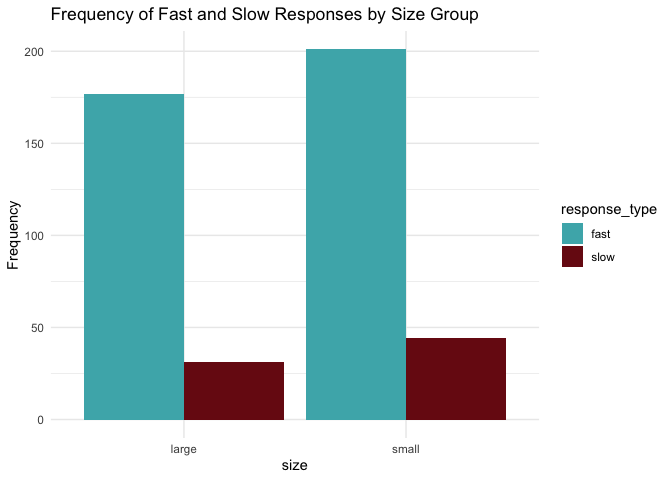
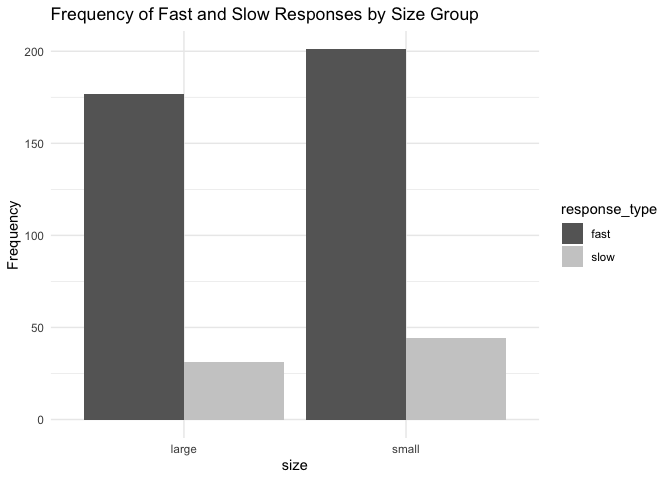
commiting updated graphs

Changed region(s): [[0.125, 0.0938, 0.75, 0.875], [0.8125, 0.4375, 0.875, 0.5625]]

diff --git a/fhlcode_draft1.md b/fhlcode_draft1.md
@@ -218,7 +218,7 @@ summary_table <- cym_dat %>%
 ggplot(summary_table, aes(x = size, y = count, fill = response_type)) +
   geom_bar(stat = "identity", position = "dodge") +
   labs(title = "Frequency of Fast and Slow Responses by Size Group", y = "Frequency") +
-  scale_fill_fish_d(option = "Trimma_lantana") +
+  scale_fill_manual(values = c("gray40", "gray80")) +
   theme_minimal()
 ```
 
@@ -506,40 +506,7 @@ plot(glm_size_distfr)
 ![](fhlcode_draft1_files/figure-gfm/unnamed-chunk-8-5.png)<!-- -->
 
 ``` r
-#size is more significant
-html_table1 <- stargazer(glm_size_distfr, type = "html")
-```
-
-    ## 
-    ## <table style="text-align:center"><tr><td colspan="2" style="border-bottom: 1px solid black"></td></tr><tr><td style="text-align:left"></td><td><em>Dependent variable:</em></td></tr>
-    ## <tr><td></td><td colspan="1" style="border-bottom: 1px solid black"></td></tr>
-    ## <tr><td style="text-align:left"></td><td>latency_ms</td></tr>
-    ## <tr><td colspan="2" style="border-bottom: 1px solid black"></td></tr><tr><td style="text-align:left">sizesmall</td><td>0.470<sup>***</sup></td></tr>
-    ## <tr><td style="text-align:left"></td><td>(0.090)</td></tr>
-    ## <tr><td style="text-align:left"></td><td></td></tr>
-    ## <tr><td style="text-align:left">distance_from_first_responder</td><td>0.007<sup>**</sup></td></tr>
-    ## <tr><td style="text-align:left"></td><td>(0.003)</td></tr>
-    ## <tr><td style="text-align:left"></td><td></td></tr>
-    ## <tr><td style="text-align:left">NND</td><td>-0.002</td></tr>
-    ## <tr><td style="text-align:left"></td><td>(0.004)</td></tr>
-    ## <tr><td style="text-align:left"></td><td></td></tr>
-    ## <tr><td style="text-align:left">Constant</td><td>5.407<sup>***</sup></td></tr>
-    ## <tr><td style="text-align:left"></td><td>(0.128)</td></tr>
-    ## <tr><td style="text-align:left"></td><td></td></tr>
-    ## <tr><td colspan="2" style="border-bottom: 1px solid black"></td></tr><tr><td style="text-align:left">Observations</td><td>209</td></tr>
-    ## <tr><td style="text-align:left">Log Likelihood</td><td>-1,359.382</td></tr>
-    ## <tr><td style="text-align:left">Akaike Inf. Crit.</td><td>2,726.764</td></tr>
-    ## <tr><td colspan="2" style="border-bottom: 1px solid black"></td></tr><tr><td style="text-align:left"><em>Note:</em></td><td style="text-align:right"><sup>*</sup>p<0.1; <sup>**</sup>p<0.05; <sup>***</sup>p<0.01</td></tr>
-    ## </table>
-
-``` r
-cat(html_table1)
-```
-
-    ##  <table style="text-align:center"><tr><td colspan="2" style="border-bottom: 1px solid black"></td></tr><tr><td style="text-align:left"></td><td><em>Dependent variable:</em></td></tr> <tr><td></td><td colspan="1" style="border-bottom: 1px solid black"></td></tr> <tr><td style="text-align:left"></td><td>latency_ms</td></tr> <tr><td colspan="2" style="border-bottom: 1px solid black"></td></tr><tr><td style="text-align:left">sizesmall</td><td>0.470<sup>***</sup></td></tr> <tr><td style="text-align:left"></td><td>(0.090)</td></tr> <tr><td style="text-align:left"></td><td></td></tr> <tr><td style="text-align:left">distance_from_first_responder</td><td>0.007<sup>**</sup></td></tr> <tr><td style="text-align:left"></td><td>(0.003)</td></tr> <tr><td style="text-align:left"></td><td></td></tr> <tr><td style="text-align:left">NND</td><td>-0.002</td></tr> <tr><td style="text-align:left"></td><td>(0.004)</td></tr> <tr><td style="text-align:left"></td><td></td></tr> <tr><td style="text-align:left">Constant</td><td>5.407<sup>***</sup></td></tr> <tr><td style="text-align:left"></td><td>(0.128)</td></tr> <tr><td style="text-align:left"></td><td></td></tr> <tr><td colspan="2" style="border-bottom: 1px solid black"></td></tr><tr><td style="text-align:left">Observations</td><td>209</td></tr> <tr><td style="text-align:left">Log Likelihood</td><td>-1,359.382</td></tr> <tr><td style="text-align:left">Akaike Inf. Crit.</td><td>2,726.764</td></tr> <tr><td colspan="2" style="border-bottom: 1px solid black"></td></tr><tr><td style="text-align:left"><em>Note:</em></td><td style="text-align:right"><sup>*</sup>p<0.1; <sup>**</sup>p<0.05; <sup>***</sup>p<0.01</td></tr> </table>
-
-``` r
-#calculate McFadden's R-squared for model for size and distance from first responder glm
+#calculate McFadden's R-squared for model for size, distance, NND from first responder glm
 with(summary(glm_size_distfr), 1 - deviance/null.deviance)
 ```
 
@@ -862,6 +829,85 @@ bar.group(large_size_multicomp$groups, ylim=c(0,650))
 ![](fhlcode_draft1_files/figure-gfm/unnamed-chunk-8-7.png)<!-- -->
 
 ``` r
+#Plots
+
+
+#Latency vs distance from first responder
+ggplot(wave_dat_fast,aes(x=distance_from_first_responder,y=latency_ms,color=size))+
+         geom_point()+
+         geom_smooth(method=lm,fullrange=TRUE,
+                  aes(color=size))+
+        scale_color_fish_d(option = "Trimma_lantana", name="Size") +
+   theme(legend.title=element_text(size=14),
+       legend.text=element_text(size=14))+
+  labs(x = "Distance from First Responder",
+       y = "Latency (ms)")+
+         theme_classic()
+```
+
+    ## `geom_smooth()` using formula = 'y ~ x'
+
+![](fhlcode_draft1_files/figure-gfm/unnamed-chunk-9-1.png)<!-- -->
+
+``` r
+#Latency vs NND
+ggplot(wave_dat_fast,aes(x=NND,y=latency_ms,color=size))+
+         geom_point()+
+         geom_smooth(method=lm,fullrange=TRUE,
+                  aes(color=size))+
+        scale_color_fish_d(option = "Trimma_lantana", name="Size") +
+   theme(legend.title=element_text(size=14),
+       legend.text=element_text(size=14))+
+  labs(x = "NND",
+       y = "Latency (ms)")+
+         theme_classic()
+```
+
+    ## `geom_smooth()` using formula = 'y ~ x'
+
+![](fhlcode_draft1_files/figure-gfm/unnamed-chunk-9-2.png)<!-- -->
+
+``` r
+#turning rate for all by responder type
+ggplot(fast_dat,aes(x=NND,y=turning_rate,color=s_w_reactor))+
+         geom_point()+
+         geom_smooth(method=lm,fullrange=TRUE,
+                  aes(color=s_w_reactor))+
+        scale_color_fish_d(option = "Trimma_lantana", name="Reactor") +
+   theme(legend.title=element_text(size=14),
+       legend.text=element_text(size=14))+
+  labs(x = "NND",
+       y = "Turning rate (degree/sec)")
+```
+
+    ## `geom_smooth()` using formula = 'y ~ x'
+
+    ## Warning: Removed 24 rows containing non-finite values (`stat_smooth()`).
+
+    ## Warning: Removed 24 rows containing missing values (`geom_point()`).
+
+![](fhlcode_draft1_files/figure-gfm/unnamed-chunk-9-3.png)<!-- -->
+
+``` r
+ggplot(fast_dat,aes(x=NND,y=turning_rate,color=size))+
+         geom_point()+
+         geom_smooth(method=lm,fullrange=TRUE,
+                  aes(color=size))+
+        scale_color_fish_d(option = "Trimma_lantana", name="Size") +
+   theme(legend.title=element_text(size=14),
+       legend.text=element_text(size=14))+
+  labs(x = "NND",
+       y = "Turning rate (degree/sec)")
+```
+
+    ## `geom_smooth()` using formula = 'y ~ x'
+
+    ## Warning: Removed 24 rows containing non-finite values (`stat_smooth()`).
+    ## Removed 24 rows containing missing values (`geom_point()`).
+
+![](fhlcode_draft1_files/figure-gfm/unnamed-chunk-9-4.png)<!-- -->
+
+``` r
 #Correlation and Principal Component Analysis, not using this
 
 
@@ -903,7 +949,7 @@ ggplot(wave_dat_fast) +
 
     ## `geom_smooth()` using formula = 'y ~ x'
 
-![](fhlcode_draft1_files/figure-gfm/unnamed-chunk-11-1.png)<!-- -->
+![](fhlcode_draft1_files/figure-gfm/unnamed-chunk-12-1.png)<!-- -->
 
 ``` r
 ggplot(cym_dat,aes(x=turning_duration,y=turning_angle_absolute_value,color=response_type))+
@@ -920,7 +966,7 @@ ggplot(cym_dat,aes(x=turning_duration,y=turning_angle_absolute_value,color=respo
 
     ## `geom_smooth()` using formula = 'y ~ x'
 
-![](fhlcode_draft1_files/figure-gfm/unnamed-chunk-11-2.png)<!-- -->
+![](fhlcode_draft1_files/figure-gfm/unnamed-chunk-12-2.png)<!-- -->
 
 ``` r
 # Predict the values using the fitted model
@@ -937,7 +983,7 @@ ggplot(plot_data, aes(x = Observed, y = Predicted)) +
   theme_minimal()
 ```
 
-![](fhlcode_draft1_files/figure-gfm/unnamed-chunk-12-1.png)<!-- -->
+![](fhlcode_draft1_files/figure-gfm/unnamed-chunk-13-1.png)<!-- -->
 
 ``` r
 ggplt <- ggplot(wave_dat,aes(x=distance_from_first_responder,y=latency_ms,color=size))+
@@ -950,13 +996,13 @@ ggplt+geom_smooth(method=lm,fullrange=TRUE,
 
     ## `geom_smooth()` using formula = 'y ~ x'
 
-![](fhlcode_draft1_files/figure-gfm/unnamed-chunk-12-2.png)<!-- -->
+![](fhlcode_draft1_files/figure-gfm/unnamed-chunk-13-2.png)<!-- -->
 
 ``` r
 ggplt+scale_color_manual(values=c("#E69F00","#0C7BDC"))
 ```
 
-![](fhlcode_draft1_files/figure-gfm/unnamed-chunk-12-3.png)<!-- -->
+![](fhlcode_draft1_files/figure-gfm/unnamed-chunk-13-3.png)<!-- -->
 
 ``` r
 ggplt+scale_color_manual(name='Size',
@@ -966,7 +1012,7 @@ ggplt+scale_color_manual(name='Size',
        legend.text=element_text(size=14))
 ```
 
-![](fhlcode_draft1_files/figure-gfm/unnamed-chunk-12-4.png)<!-- -->
+![](fhlcode_draft1_files/figure-gfm/unnamed-chunk-13-4.png)<!-- -->
 
 ``` r
 #plots 
@@ -985,4 +1031,4 @@ ggplot(wave_dat_fast,aes(x=distance_from_first_responder,y=latency_ms,color=size
 
     ## `geom_smooth()` using formula = 'y ~ x'
 
-![](fhlcode_draft1_files/figure-gfm/unnamed-chunk-13-1.png)<!-- -->
+![](fhlcode_draft1_files/figure-gfm/unnamed-chunk-14-1.png)<!-- -->
